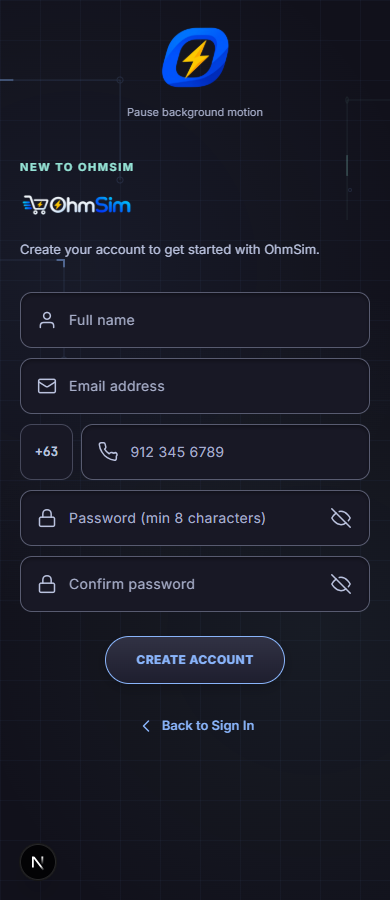
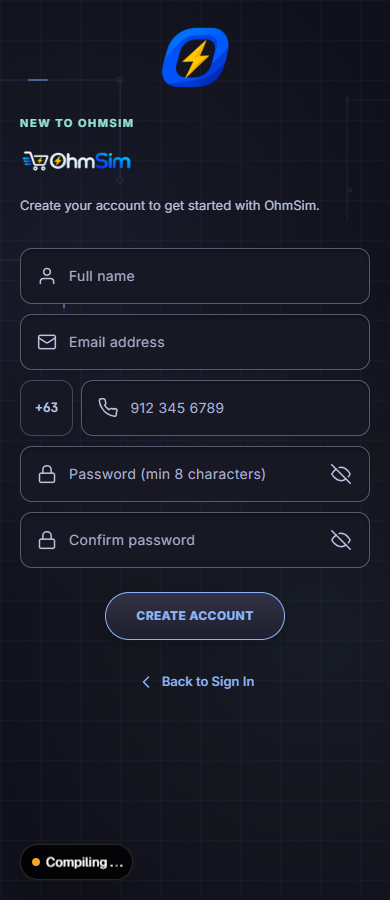
feat: add landing circuit motion without visible controls

diff --git a/app/login/auth.module.css b/app/login/auth.module.css
@@ -10,20 +10,16 @@
 }
 .shell::before { content: ""; position: absolute; inset: 0; z-index: -1; pointer-events: none; background: radial-gradient(circle at 20% 30%, color-mix(in srgb, var(--mocha-accent) 6%, transparent), transparent 50%), radial-gradient(circle at 80% 70%, color-mix(in srgb, var(--mocha-accent-secondary) 5%, transparent), transparent 50%); }
 .circuits { position: absolute; inset: 0; width: 100%; height: 100%; pointer-events: none; z-index: -1; }
-.circuitPulse { fill: none; stroke: var(--mocha-accent); stroke-width: 2; stroke-linecap: round; stroke-dasharray: 8 112; opacity: 0; animation: circuitFlow 6s linear infinite; }
-.pulseDelayed { animation-delay: -2s; }
-.pulseTeal { stroke: var(--mocha-accent-secondary); animation-delay: -4s; }
-.circuits[data-paused="true"] .circuitPulse { animation-play-state: paused; }
+.circuitPulse { fill: none; stroke: var(--mocha-accent); stroke-width: 2; stroke-linecap: round; stroke-dasharray: 8 112; opacity: 0; animation: circuitFlow 4s linear 1 both; }
+.pulseDelayed { animation-delay: .3s; }
+.pulseTeal { stroke: var(--mocha-accent-secondary); animation-delay: .6s; }
 @keyframes circuitFlow {
   0% { stroke-dashoffset: 12; opacity: 0; }
   12%, 82% { opacity: .45; }
   100% { stroke-dashoffset: -100; opacity: 0; }
 }
-.motionToggle { position: absolute; bottom: 16px; padding: 10px 12px; min-height: 44px; border-radius: var(--radius-small); color: var(--mocha-text-subtle); font-size: 11px; cursor: pointer; }
-.motionToggle:hover { color: var(--mocha-accent); }
 @media (prefers-reduced-motion: reduce) {
   .circuitPulse { animation: none !important; display: none; }
-  .motionToggle { display: none; }
 }
 .artwork { position: relative; flex: 0 0 42%; display: flex; align-items: center; justify-content: center; }
 .artwork::after { content: ""; position: absolute; right: 0; top: 10%; bottom: 10%; width: 1px; background: linear-gradient(180deg, transparent, var(--mocha-accent-secondary) 35%, var(--mocha-accent) 65%, transparent); opacity: .35; }
@@ -70,8 +66,7 @@
 .email { font-family: var(--font-jetbrains-mono), monospace; overflow-wrap: anywhere; }
 @media (max-width: 767px) {
   .shell { flex-direction: column; }
-  .artwork { flex: none; flex-direction: column; padding: 24px 0 0; }
-  .motionToggle { position: static; }
+  .artwork { flex: none; padding: 24px 0 0; }
   .artwork::after { display: none; }
   .emblem { width: 100px; }
   .formPane { padding: 24px max(20px, env(safe-area-inset-right)) max(32px, env(safe-area-inset-bottom)) max(20px, env(safe-area-inset-left)); align-items: center; justify-content: flex-start; }

diff --git a/app/_components/hero.tsx b/app/_components/hero.tsx
@@ -2,11 +2,13 @@
 
 import React from "react";
 import { ButtonLink } from "@/components/ui/button";
+import styles from "./hero-motion.module.css";
 
 export function Hero() {
   return (
     <section
       aria-labelledby="hero-heading"
+      data-hero-motion="true"
       className="relative pt-12 pb-16 md:pt-20 md:pb-24 overflow-hidden"
     >
       {/* Decorative Technical Grid Background */}
@@ -21,12 +23,32 @@ export function Hero() {
         aria-hidden="true"
       />
 
+      {/* Edge-only circuit traces keep the headline and controls clear. */}
+      <div className={styles.circuits} aria-hidden="true">
+        <svg className={styles.left} viewBox="0 0 240 600" preserveAspectRatio="none">
+          <g className={styles.trace}>
+            <path d="M0 80H110V180H175V240M0 360H65V430H130V530" />
+            <circle cx="175" cy="240" r="3" /><circle cx="130" cy="530" r="3" />
+          </g>
+          <path className={styles.pulse} data-hero-pulse="true" pathLength="100" d="M0 80H110V180H175V240" />
+          <path className={`${styles.pulse} ${styles.delayed}`} data-hero-pulse="true" pathLength="100" d="M0 360H65V430H130V530" />
+        </svg>
+        <svg className={styles.right} viewBox="0 0 240 600" preserveAspectRatio="none">
+          <g className={styles.trace}>
+            <path d="M240 100H140V170H75V260M240 390H180V460H110V550" />
+            <circle cx="75" cy="260" r="3" /><circle cx="110" cy="550" r="3" />
+          </g>
+          <path className={`${styles.pulse} ${styles.teal}`} data-hero-pulse="true" pathLength="100" d="M240 100H140V170H75V260" />
+          <path className={`${styles.pulse} ${styles.last}`} data-hero-pulse="true" pathLength="100" d="M240 390H180V460H110V550" />
+        </svg>
+      </div>
+
       {/* Hero Content Container */}
       <div className="relative max-w-[1280px] mx-auto px-4 sm:px-6 lg:px-8 text-center">
         <div className="max-w-[896px] mx-auto flex flex-col items-center">
           {/* Eyebrow */}
           <div className="inline-flex items-center gap-2 px-3 py-1.5 rounded-full bg-mocha-panel border border-mocha-panel-high shadow-sm mb-6">
-            <span className="w-2 h-2 rounded-full bg-mocha-accent animate-pulse" />
+            <span className={`w-2 h-2 rounded-full bg-mocha-accent animate-pulse ${styles.statusDot}`} />
             <span className="font-mono text-[11px] sm:text-xs font-bold tracking-[0.12em] text-mocha-text uppercase">
               v2.4.1 — 16,510 active SKUs
             </span>

diff --git a/app/login/auth-experience.tsx b/app/login/auth-experience.tsx
@@ -67,7 +67,6 @@ function AuthField({ name, label, placeholder = label, type = "text", value, onC
 }
 
 export function AuthExperience() {
-  const [motionPaused, setMotionPaused] = useState(false);
   const [view, setView] = useState<View>("signin");
   const [values, setValues] = useState<Fields>(emptyFields);
   const [touched, setTouched] = useState<Partial<Record<FieldName, boolean>>>({});
@@ -115,7 +114,7 @@ export function AuthExperience() {
 
   return (
     <main id="main-content" tabIndex={-1} className={styles.shell}>
-      <svg className={styles.circuits} data-paused={motionPaused} aria-hidden="true" xmlns="http://www.w3.org/2000/svg">
+      <svg className={styles.circuits} aria-hidden="true" xmlns="http://www.w3.org/2000/svg">
         <g opacity=".12" stroke="var(--mocha-accent)" strokeWidth="1" fill="none">
           <path d="M0 80H120V180M0 260H64V360" /><circle cx="120" cy="80" r="3" /><circle cx="120" cy="180" r="3" /><circle cx="64" cy="360" r="3" />
           <circle cx="200" cy="50" r="2" /><circle cx="350" cy="190" r="1.5" /><circle cx="700" cy="310" r="1.5" />
@@ -130,7 +129,6 @@ export function AuthExperience() {
       </svg>
       <aside className={styles.artwork} aria-label="OhmSim artwork">
         <Image src="/auth/ohmsim-emblem.png" alt="OhmSim lightning emblem" width={1536} height={1024} className={styles.emblem} priority />
-        <button type="button" className={styles.motionToggle} onClick={() => setMotionPaused(current => !current)}>{motionPaused ? "Resume background motion" : "Pause background motion"}</button>
       </aside>
       <section className={styles.formPane} aria-labelledby="auth-heading">
         <div className={styles.content}>

diff --git a/app/_components/hero-motion.module.css b/app/_components/hero-motion.module.css
@@ -1,0 +1,23 @@
+.circuits { position: absolute; inset: 0; pointer-events: none; }
+.left, .right { position: absolute; top: 0; width: 22%; max-width: 280px; height: 100%; overflow: hidden; fill: none; stroke: var(--mocha-accent); }
+.left { left: 0; }
+.right { right: 0; stroke: var(--mocha-accent-secondary); }
+.trace { opacity: .12; stroke-width: 1; }
+.pulse { stroke-width: 2; stroke-linecap: round; stroke-dasharray: 8 112; opacity: 0; animation: circuitFlow 4s linear 1 both; }
+.delayed { animation-delay: .3s; }
+.teal { animation-delay: .6s; }
+.last { animation-delay: .9s; }
+@keyframes circuitFlow {
+  0% { stroke-dashoffset: 12; opacity: 0; }
+  12%, 82% { opacity: .4; }
+  100% { stroke-dashoffset: -100; opacity: 0; }
+}
+.statusDot { animation-iteration-count: 2; }
+@media (max-width: 767px) {
+  .left, .right { width: 12%; }
+  .circuits { opacity: .65; }
+}
+@media (prefers-reduced-motion: reduce) {
+  .pulse { animation: none !important; display: none; }
+  .statusDot { animation: none !important; }
+}

diff --git a/docs/design/auth/AUTH_IMPLEMENTATION_REVIEW.md b/docs/design/auth/AUTH_IMPLEMENTATION_REVIEW.md
@@ -110,7 +110,7 @@ PM then approved permanent Sign In and Create Account instructions, rendered usi
 
 ### Circuit motion follow-up
 
-Per PM request, three subtle blue/teal pulses now travel along the existing decorative circuit paths on a staggered six-second CSS loop. Static trace geometry remains unchanged. A keyboard-accessible Pause/Resume background motion control is provided; reduced-motion preference hides the pulses and motion control, leaving the static background. No animation dependency, timer loop, backend or global style change. Lint, TypeScript, whitespace checks and all 106 Auth browser assertions passed, including movement, pause/resume and reduced-motion checks. Desktop/mobile screenshots were refreshed.
+Per PM request, three subtle blue/teal pulses travel along the existing decorative circuit paths. Following the request to remove the visible motion control, this is a short entrance animation: four seconds per path with small staggered delays, completing within five seconds. It does not loop. Static trace geometry remains unchanged. Reduced-motion preference hides pulses, leaving the static background. No animation dependency, timer loop, backend or global style change. The browser suite covers movement, finite duration, absence of the removed control and reduced-motion behavior.
 
 - Backend authentication, Better Auth, sessions, registration backend, credential verification, reset links, and email delivery: **DEFERRED**.
 - Backend integration owner: **Developer 3**, after frontend completion. No backend work or coordination was initiated.

diff --git a/docs/design/landing-page/HERO_MOTION_REVIEW.md b/docs/design/landing-page/HERO_MOTION_REVIEW.md
@@ -1,0 +1,11 @@
+# Landing hero circuit motion
+
+PM requested the Auth circuit treatment on the landing hero, then requested removal of the visible Pause background motion control.
+
+- Added blue/teal SVG circuit traces at the hero edges without changing copy, CTAs, statistics or section spacing.
+- CSS-only four-second light pulses with 0/.3/.6/.9-second delays. The entrance finishes within five seconds, leaving static traces; there is no continuous motion requiring a visible pause control.
+- Auth uses the same short entrance behavior; its previously added pause control is removed.
+- The existing hero status-dot pulse is also finite (two iterations).
+- Reduced-motion preference disables the pulses. SVG decoration is hidden from assistive technology and cannot intercept pointer events.
+- Narrow screens use smaller, dimmer edge decorations. No dependencies or global tokens changed.
+- Tests: `tests/ui/hero-motion.browser.mjs` covers actual path motion, finite completion, absent controls, reduced motion, six viewport widths, and runtime errors. Existing landing and Auth suites remain applicable.
